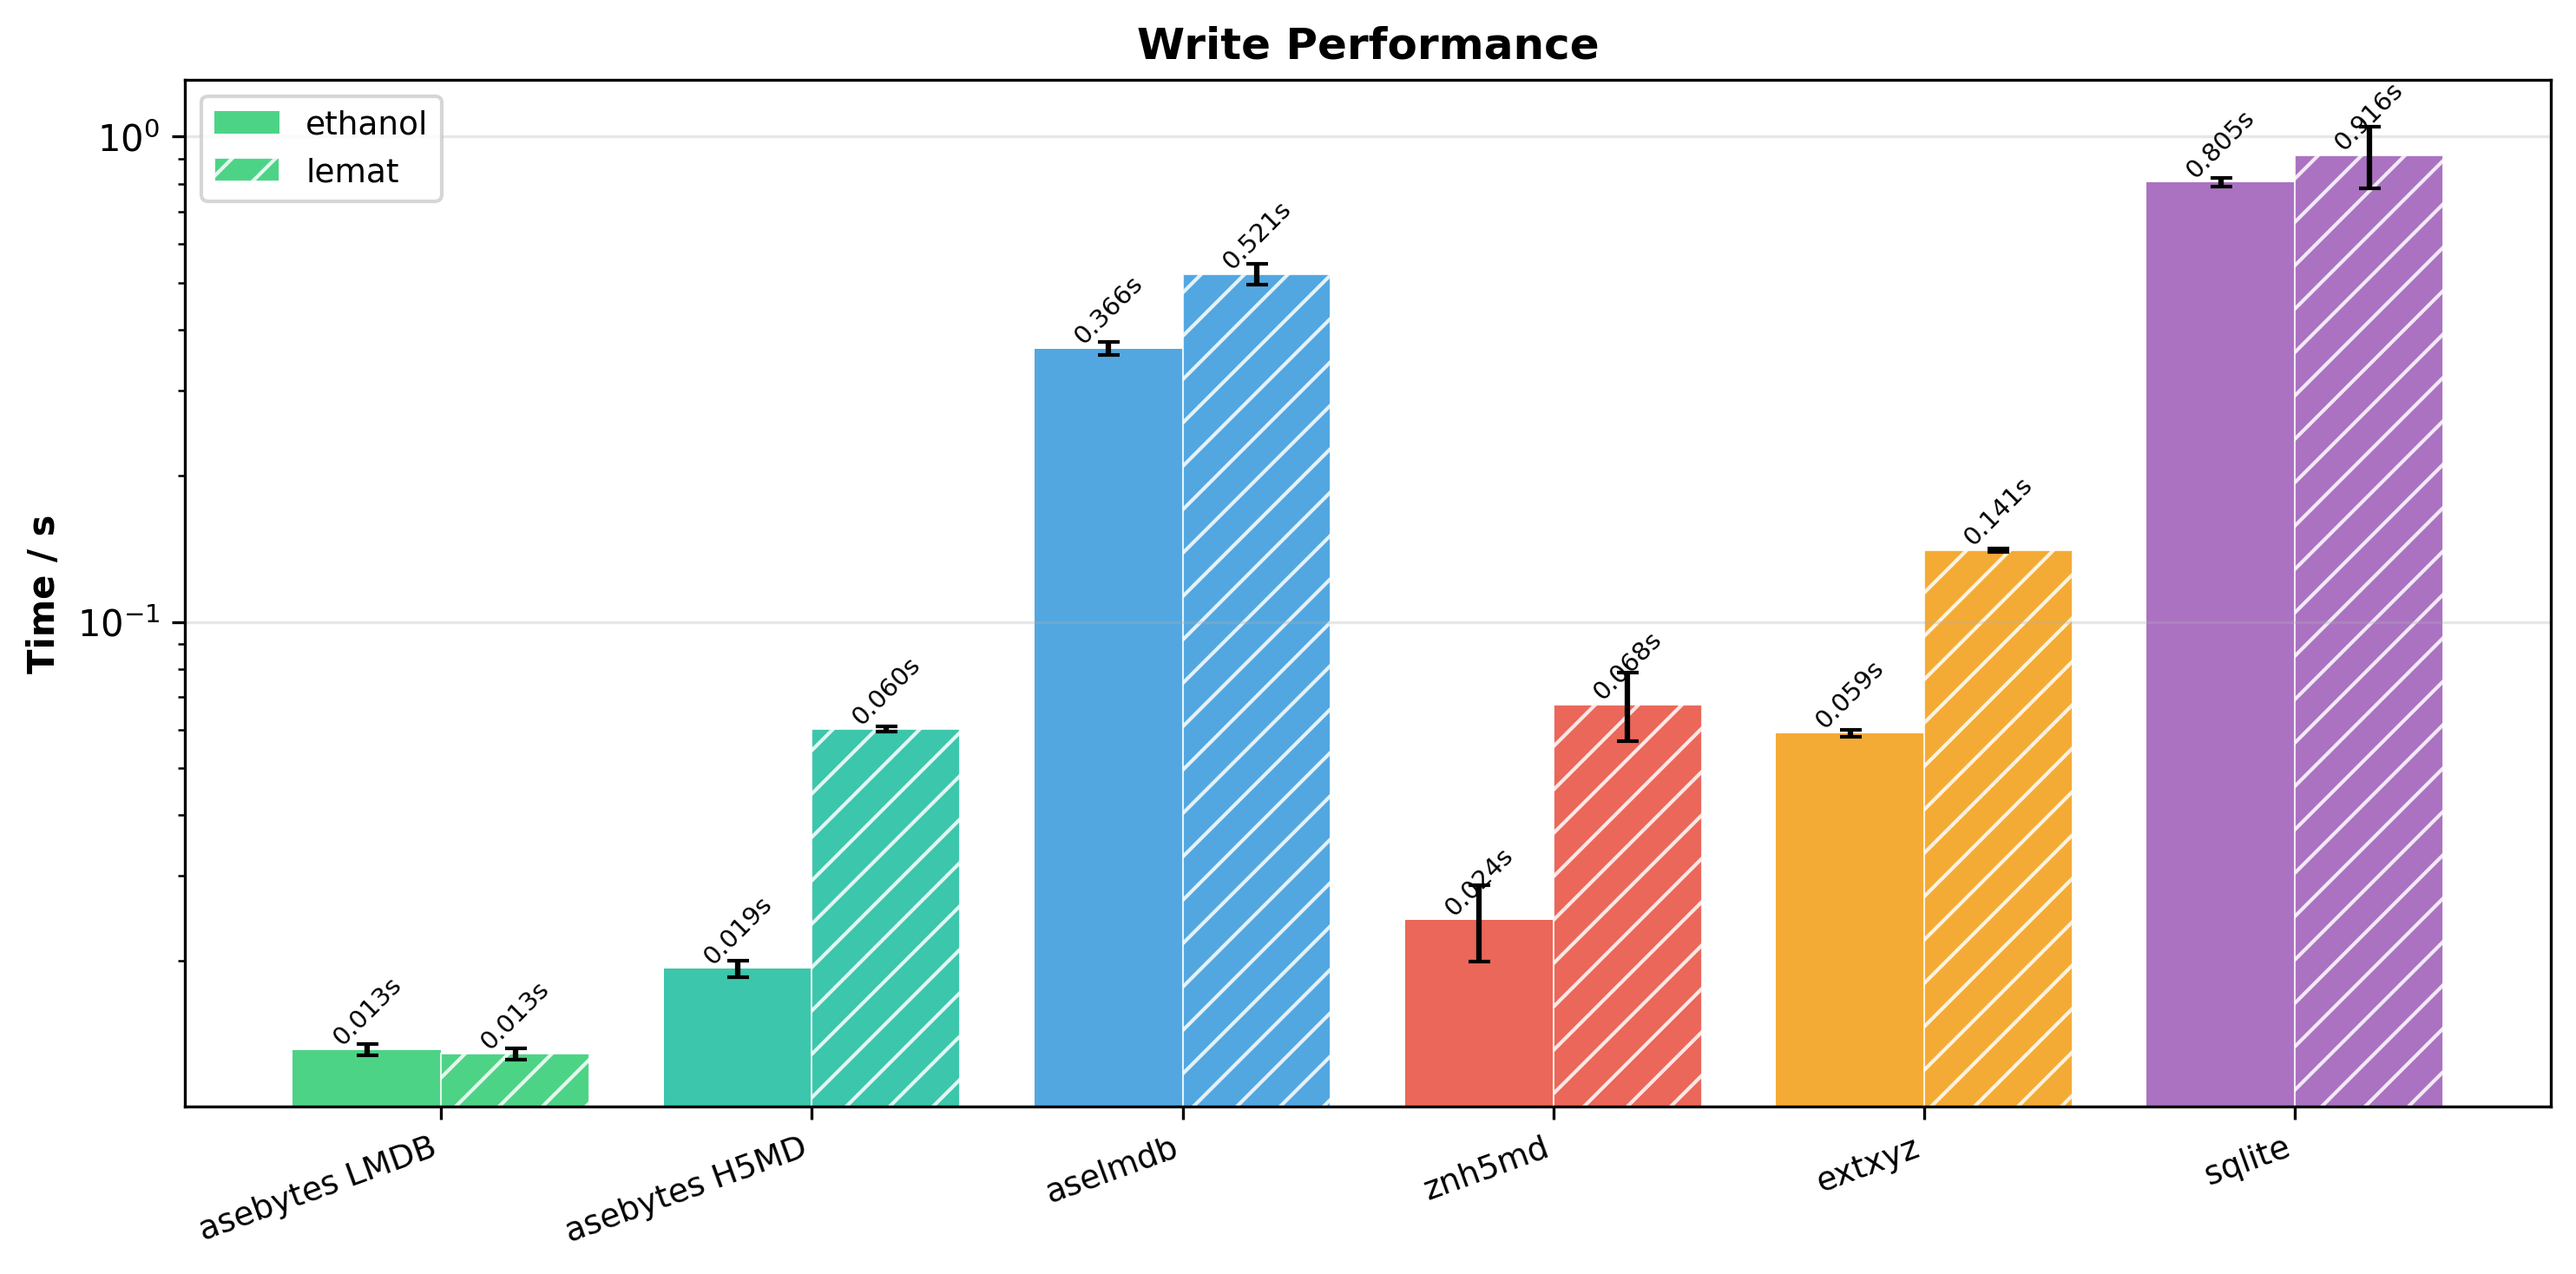
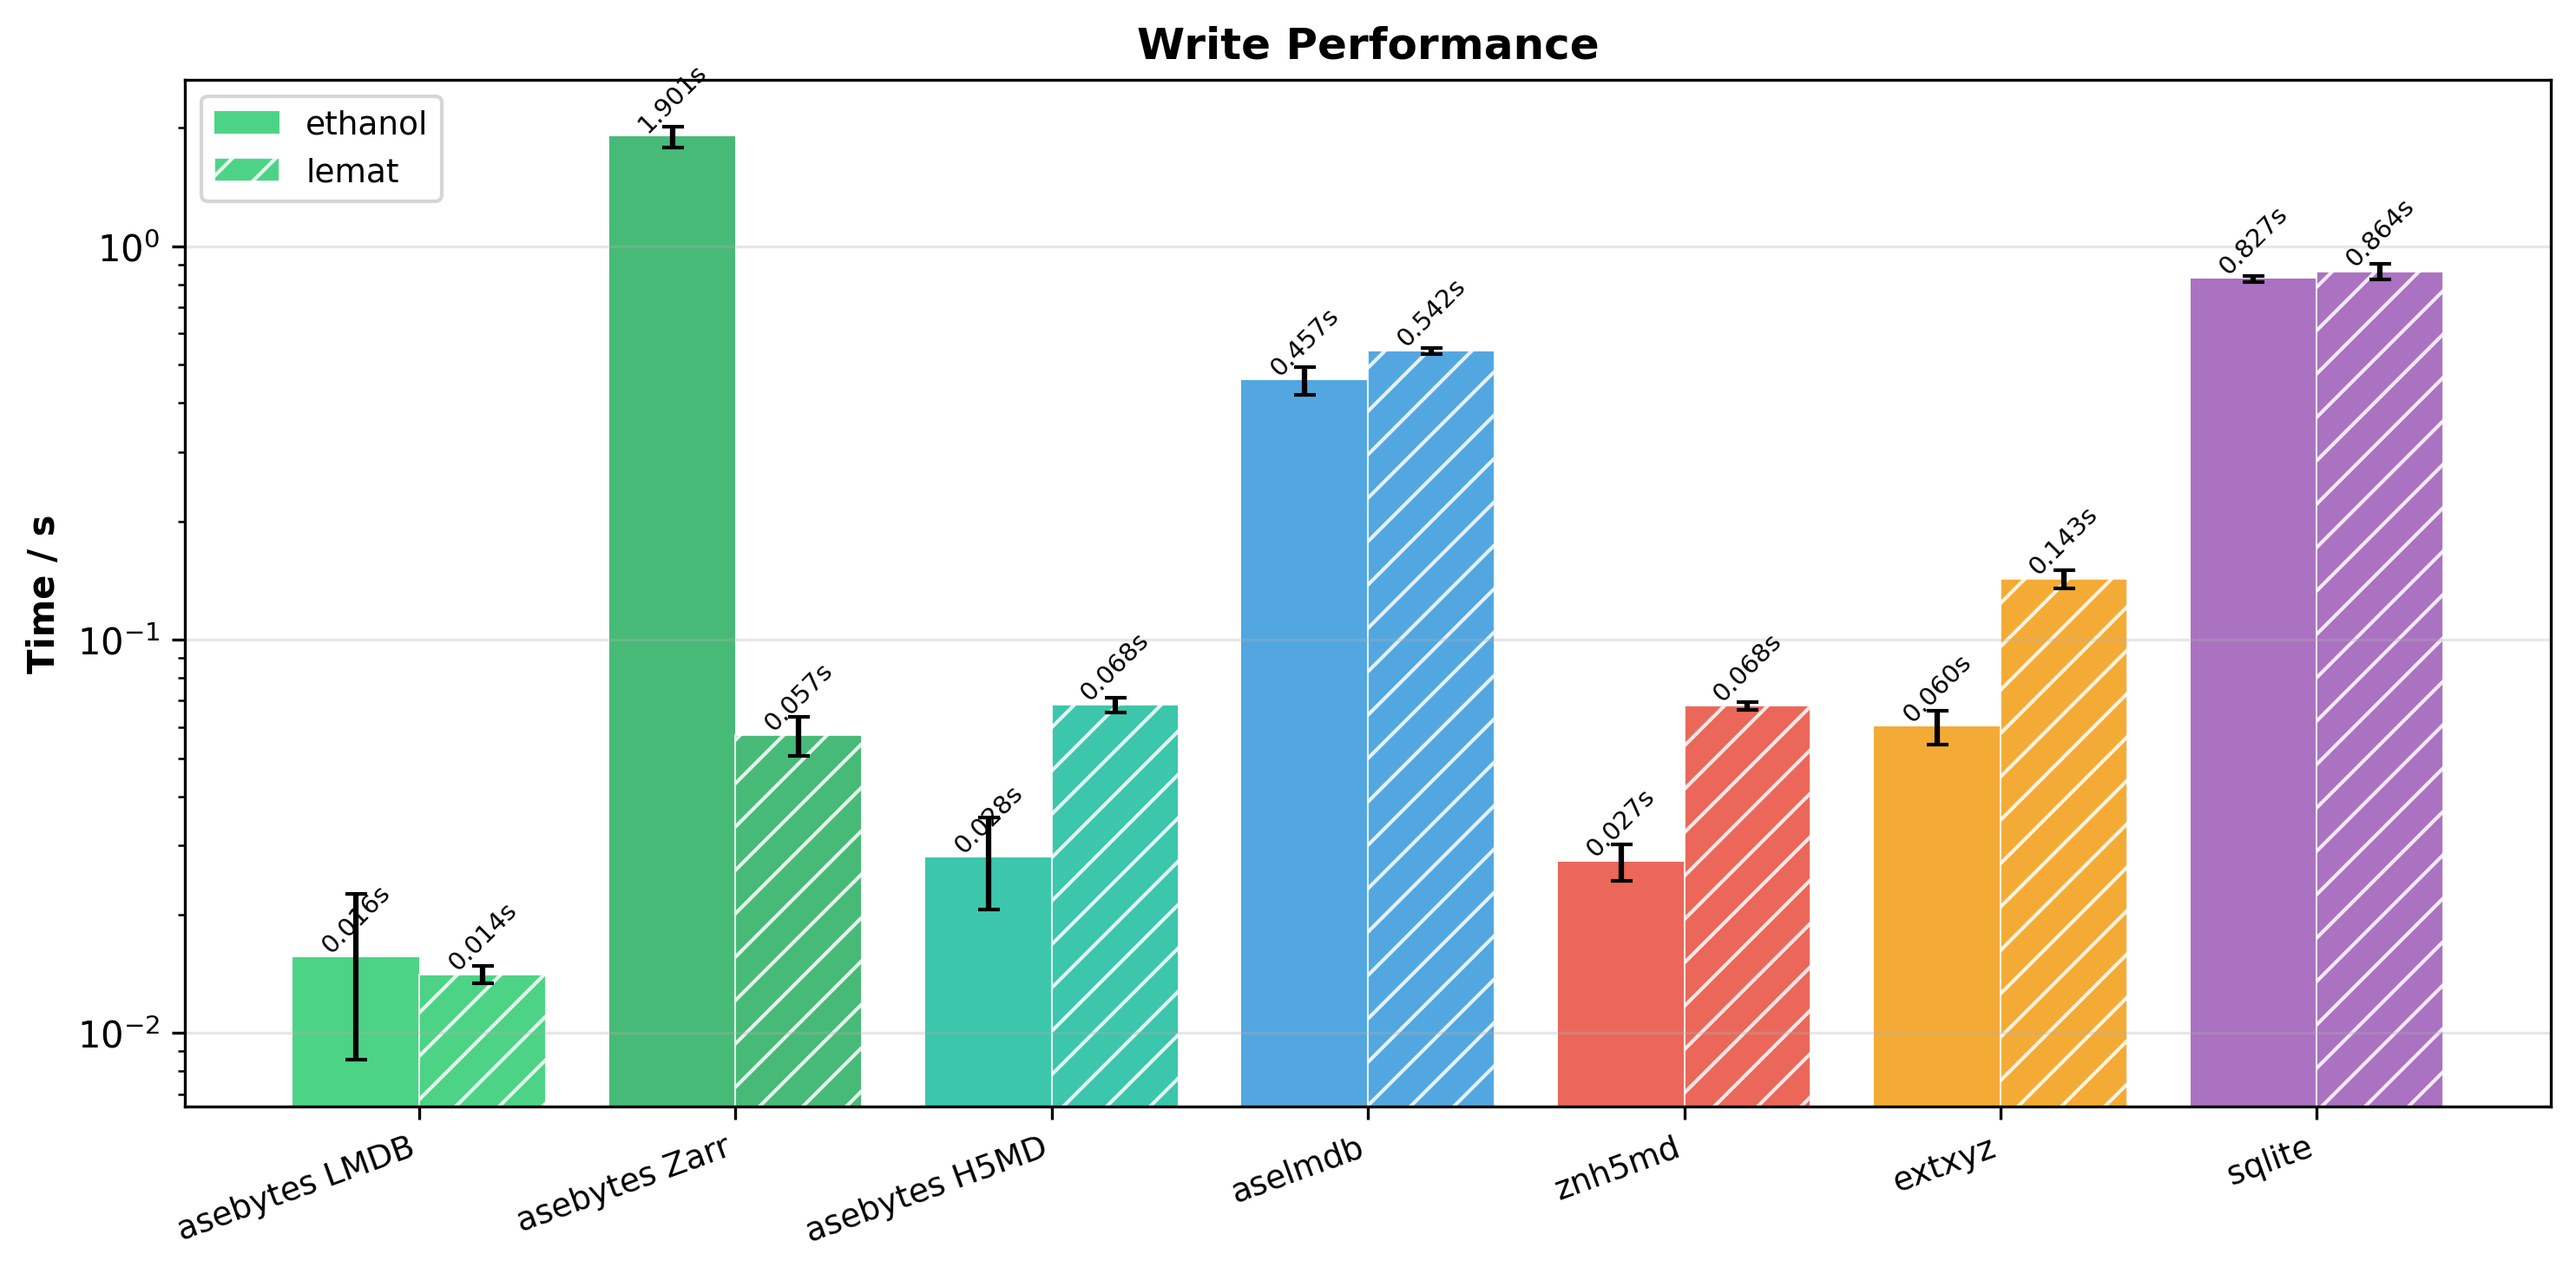
docs: update benchmarks and README with Zarr backend
Add asebytes Zarr to visualization script, regenerate all benchmark
figures, and update README with Zarr install instructions, backend
table entry, and usage section.

diff --git a/docs/visualize_benchmarks.py b/docs/visualize_benchmarks.py
@@ -21,6 +21,7 @@ import numpy as np
 # Backend display names and colors
 BACKEND_NAMES = {
     "asebytes_lmdb": "asebytes LMDB",
+    "asebytes_zarr": "asebytes Zarr",
     "asebytes_h5md": "asebytes H5MD",
     "aselmdb": "aselmdb",
     "znh5md": "znh5md",
@@ -31,6 +32,7 @@ BACKEND_NAMES = {
 
 COLORS = {
     "asebytes LMDB": "#2ecc71",
+    "asebytes Zarr": "#27ae60",
     "asebytes H5MD": "#1abc9c",
     "aselmdb": "#3498db",
     "znh5md": "#e74c3c",
@@ -42,6 +44,7 @@ COLORS = {
 # Order backends appear in charts
 BACKEND_ORDER = [
     "asebytes LMDB",
+    "asebytes Zarr",
     "asebytes H5MD",
     "aselmdb",
     "znh5md",

diff --git a/README.md b/README.md
@@ -1,9 +1,10 @@
 # asebytes
 
-Storage-agnostic, lazy-loading interface for [ASE](https://wiki.fysik.dtu.dk/ase/) Atoms objects. Pluggable backends (LMDB, HDF5/H5MD, HuggingFace Datasets, ASE file formats) behind a single `list`-like API with pandas-style column views.
+Storage-agnostic, lazy-loading interface for [ASE](https://wiki.fysik.dtu.dk/ase/) Atoms objects. Pluggable backends (LMDB, Zarr, HDF5/H5MD, HuggingFace Datasets, ASE file formats) behind a single `list`-like API with pandas-style column views.
 
 ```
 pip install asebytes[lmdb]      # LMDB backend (recommended)
+pip install asebytes[zarr]      # Zarr backend (fast compression)
 pip install asebytes[h5md]      # HDF5/H5MD backend
 pip install asebytes[hf]        # HuggingFace Datasets backend
 ```
@@ -29,6 +30,7 @@ Backend is auto-detected from the file extension:
 | Extension | Backend | Install extra |
 |-----------|---------|---------------|
 | `*.lmdb` | `LMDBBackend` | `asebytes[lmdb]` |
+| `*.zarr` | `ZarrBackend` | `asebytes[zarr]` |
 | `*.h5` / `*.h5md` | `H5MDBackend` | `asebytes[h5md]` |
 | `*.xyz` / `*.extxyz` / `*.traj` | `ASEReadOnlyBackend` | *(none)* |
 
@@ -96,6 +98,19 @@ db = ASEIO("hf://user/dataset", mapping=mapping, split="train")
 db = ASEIO("colabfit://dataset", split="train", streaming=False)
 ```
 
+## Zarr
+
+Zarr backend with flat layout and Blosc/LZ4 compression. Offers compact file sizes and fast read performance. Supports variable particle counts via NaN padding, append-only writes.
+
+```python
+db = ASEIO("trajectory.zarr")
+db.extend(atoms_list)
+
+# Custom compression
+from asebytes import ZarrBackend
+db = ASEIO(ZarrBackend("data.zarr", compressor="zstd", clevel=9))
+```
+
 ## HDF5 / H5MD
 
 H5MD-standard files with support for variable particle counts, per-frame PBC, and bond connectivity.
@@ -152,7 +167,7 @@ db = ASEIO(MyBackend())
 lemat = list(ASEIO("optimade://LeMaterial/LeMat-Traj", split="train", name="compatible_pbe")[:1000])
 ```
 
-> **Note:** HDF5 performance is heavily influenced by compression and chunking settings. Both asebytes H5MD and znh5md use gzip compression by default, which reduces file size at the cost of read/write speed.
+> **Note:** HDF5 performance is heavily influenced by compression and chunking settings. Both asebytes H5MD and znh5md use gzip compression by default, which reduces file size at the cost of read/write speed. The Zarr backend uses Blosc/LZ4 compression, which achieves compact file sizes with faster decompression than gzip.
 
 ### Write
 ![Write Performance](benchmark_write.png)
